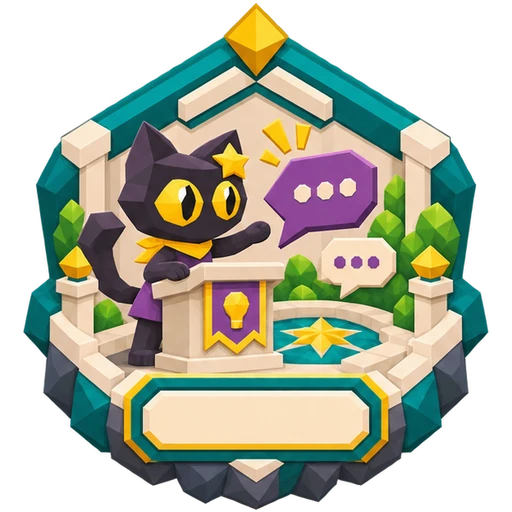
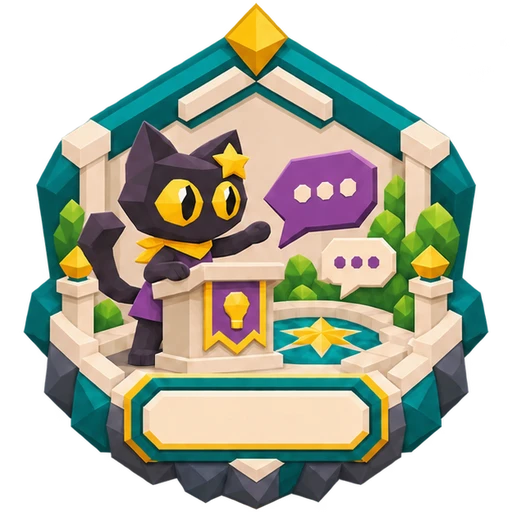
fix: remove three yellow rays from eight English achievement artworks

diff --git a/artifacts/english-art-quality-review/review.tsx b/artifacts/english-art-quality-review/review.tsx
@@ -13,6 +13,17 @@ localStorage.setItem("helenastudy.theme", theme);
 await initializeLanguage();
 const math = MATH_ACHIEVEMENTS.find((item) => item.id === "rounds-1")!;
 const english = ENGLISH_ACHIEVEMENTS.find((item) => item.id === "english-rounds-1")!;
+const cleanupIds = new Set([
+  "english-correct-50",
+  "english-correct-100",
+  "english-correct-250",
+  "english-part-4-correct-20",
+  "english-part-4-correct-100",
+  "english-part-4-variety-25",
+  "english-part-4-variety-50",
+  "english-part-4",
+]);
+const cleanup = ENGLISH_ACHIEVEMENTS.filter((item) => cleanupIds.has(item.id));
 const poses = ENGLISH_ACHIEVEMENTS.filter(
   (item) => item.part !== undefined && item.metric === "parts",
 );
@@ -32,6 +43,15 @@ createRoot(document.getElementById("root")!).render(
         <AchievementArt item={english} />
         <figcaption>Inglês, arte refeita</figcaption>
       </figure>
+    </section>
+    <h2>Artes sem os três raios</h2>
+    <section className="quality-poses quality-cleanup" aria-label="Artes corrigidas">
+      {cleanup.map((item) => (
+        <figure key={item.id}>
+          <AchievementArt item={item} />
+          <figcaption>{item.name}</figcaption>
+        </figure>
+      ))}
     </section>
     <h2>Oito cenas da Olena</h2>
     <section className="quality-poses" aria-label="Poses da Olena">

diff --git a/src/data/english-achievement-plates.ts b/src/data/english-achievement-plates.ts
@@ -8,9 +8,6 @@ export const ENGLISH_ACHIEVEMENT_PLATES: Readonly<Record<string, number>> = {
   "english-rounds-100": 115.82,
   "english-correct-1": 115.94,
   "english-correct-10": 115.94,
-  "english-correct-50": 115.18,
-  "english-correct-100": 115.18,
-  "english-correct-250": 115.31,
   "english-correct-500": 115.31,
   "english-correct-1000": 117.73,
   "english-correct-2500": 117.73,
@@ -52,7 +49,7 @@ export const ENGLISH_ACHIEVEMENT_PLATES: Readonly<Record<string, number>> = {
   "english-part-3-variety-50": 117.6,
   "english-part-4-correct-20": 117.47,
   "english-part-4-correct-100": 117.47,
-  "english-part-4-variety-25": 117.35,
+  "english-part-4-variety-25": 117.47,
   "english-part-4-variety-50": 117.47,
   "english-part-5-correct-20": 120.15,
   "english-part-5-correct-100": 120.03,
@@ -70,8 +67,11 @@ export const ENGLISH_ACHIEVEMENT_PLATES: Readonly<Record<string, number>> = {
   "part-1": 119.64,
   "part-2": 119.64,
   "part-3": 119.64,
-  "part-4": 119.9,
   "part-5": 119.9,
   "part-6": 120.03,
   "part-7": 120.03,
+  "english-correct-50": 115.18,
+  "english-correct-100": 115.18,
+  "english-correct-250": 115.31,
+  "part-4": 119.9,
 };

diff --git a/docs/CURRENT_STATE_AUDIT.md b/docs/CURRENT_STATE_AUDIT.md
@@ -4564,3 +4564,9 @@ Relato: as conquistas de Inglês pareciam borradas e demoravam mais que as de Ma
 Integração com main 2b864e5: preservadas miniaturas de 256 px e revisão de erros sem avatar. A tabela antiga de placas foi substituída pelo mapa gerado das novas fontes; a regressão de paridade das miniaturas foi incorporada a english-achievement-art.test.ts.
 
 Validação final desta correção: npm run verify aprovado, 410 arquivos e 2661 testes, lint/formatação/API/idiomas/build/performance aprovados. Entrada 220,8 KiB, aplicação 1737,9 KiB, abaixo do teto de 1742. Cinco testes Python do exportador aprovados. Dezesseis cenários Playwright das galerias inglesa, matemática e geral aprovados em desktop e celular, incluindo claro/escuro, inspeção, destaques e PNG. Chromium do ambiente usado via configuração temporária removida após a execução. Conta real, aparelhos físicos e Safari não verificados.
+
+### 06/11/2026, Recife: remoção dos três raios nas conquistas inglesas
+
+Revisadas visualmente as 74 artes finais. Encontrado o grupo de três raios amarelos nas quatro artes de objetos da parte 4, em acertos globais 50/100/250 e na confirmação máxima da parte 4 com Olena. Oito artes corrigidas via edição de imagem, mantendo poses e bordas turquesa. As tentativas azuis descartadas não constam no manifesto ou nos arquivos publicados. Fontes e prompts de edição preservados no manifesto; somente as oito células afetadas foram substituídas. Mantidos 627 px nativos, WebP 512 e miniaturas 256. Capturas cleanup em artifacts/english-art-quality-review mostram as oito no componente real, desktop e celular 320 px, claro/escuro e sem overflow horizontal.
+
+Validação após a remoção: npm run verify aprovado novamente, 410 arquivos e 2661 testes; cinco testes do exportador aprovados; quatro cenários Playwright ingleses aprovados em desktop/mobile e claro/escuro. Capturas cleanup atualizadas. Entrada 220,8 KiB e aplicação 1737,9 KiB, sem alteração nos limites.

diff --git a/docs/ACHIEVEMENT_DESIGN.md b/docs/ACHIEVEMENT_DESIGN.md
@@ -87,3 +87,5 @@ As 74 artes inglesas usam recortes nativos de 627 × 627 px, reduzidos para WebP
 Olena aparece somente no nível máximo de cada parte, com oito ações e silhuetas distintas: amarrar barco, tomar chá apontando o relógio, examinar cartões, usar telescópio, apresentar ideias, caminhar com lanterna, preparar mala e ler sentada. Preservar anatomia e identidade aprovadas.
 
 A posição vertical de PaperDigits é calibrada pela placa de cada imagem no arquivo gerado english-achievement-plates.ts, mantendo tamanho e renderização compartilhados com Matemática. URLs inglesas usam revisão v=20261107 para invalidar o cache anterior de sete dias.
+
+Direção visual confirmada pela responsável em 06/11/2026 (Recife): não usar grupos de três raios amarelos, marcas de atenção ou traços de som nas conquistas inglesas, inclusive junto dos balões e da Olena. Molduras inglesas permanecem turquesa; tentativas descartadas com azul não integram o manifesto publicado.

diff --git a/artifacts/english-art-quality-review/README.md b/artifacts/english-art-quality-review/README.md
@@ -13,3 +13,10 @@ Comparação no componente real AchievementArt, com Matemática e Inglês no mes
 - [Poses mobile escuras](mobile-poses-dark.png)
 
 Reproduzir com `npm run dev -- --host 127.0.0.1 --port 4174` e `node artifacts/english-art-quality-review/capture.mjs`. O roteiro usa Chromium instalado em /usr/bin/chromium. Exportar com `python scripts/achievement-art/english_art.py --plan docs/achievement-english-art-sources.json`.
+
+## Ajuste aprovado em 06/11, Recife
+
+Removidos os grupos de três raios amarelos de oito artes: acertos globais 50/100/250, quatro níveis de objetos da parte 4 e a confirmação dessa parte com Olena. As outras células dos atlas editados mantêm as fontes anteriores. Bordas turquesa conferidas nas 74 conquistas; folha azul descartada permanece fora da entrega.
+
+- [Oito correções no desktop](desktop-cleanup-light.png)
+- [Oito correções no celular escuro](mobile-cleanup-dark.png)
